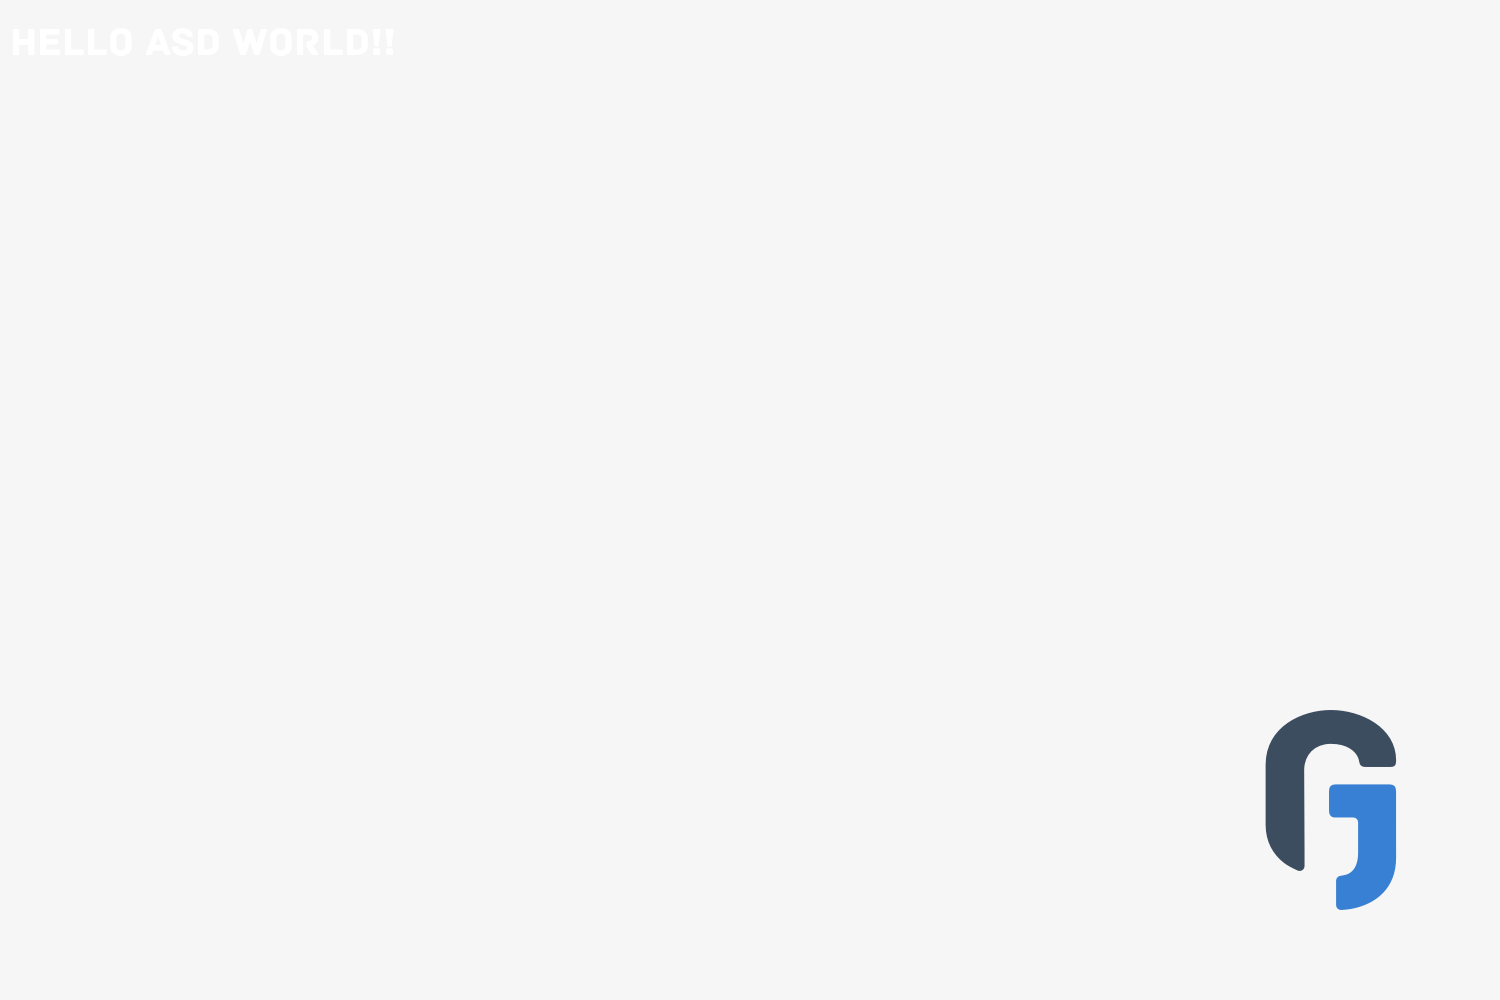
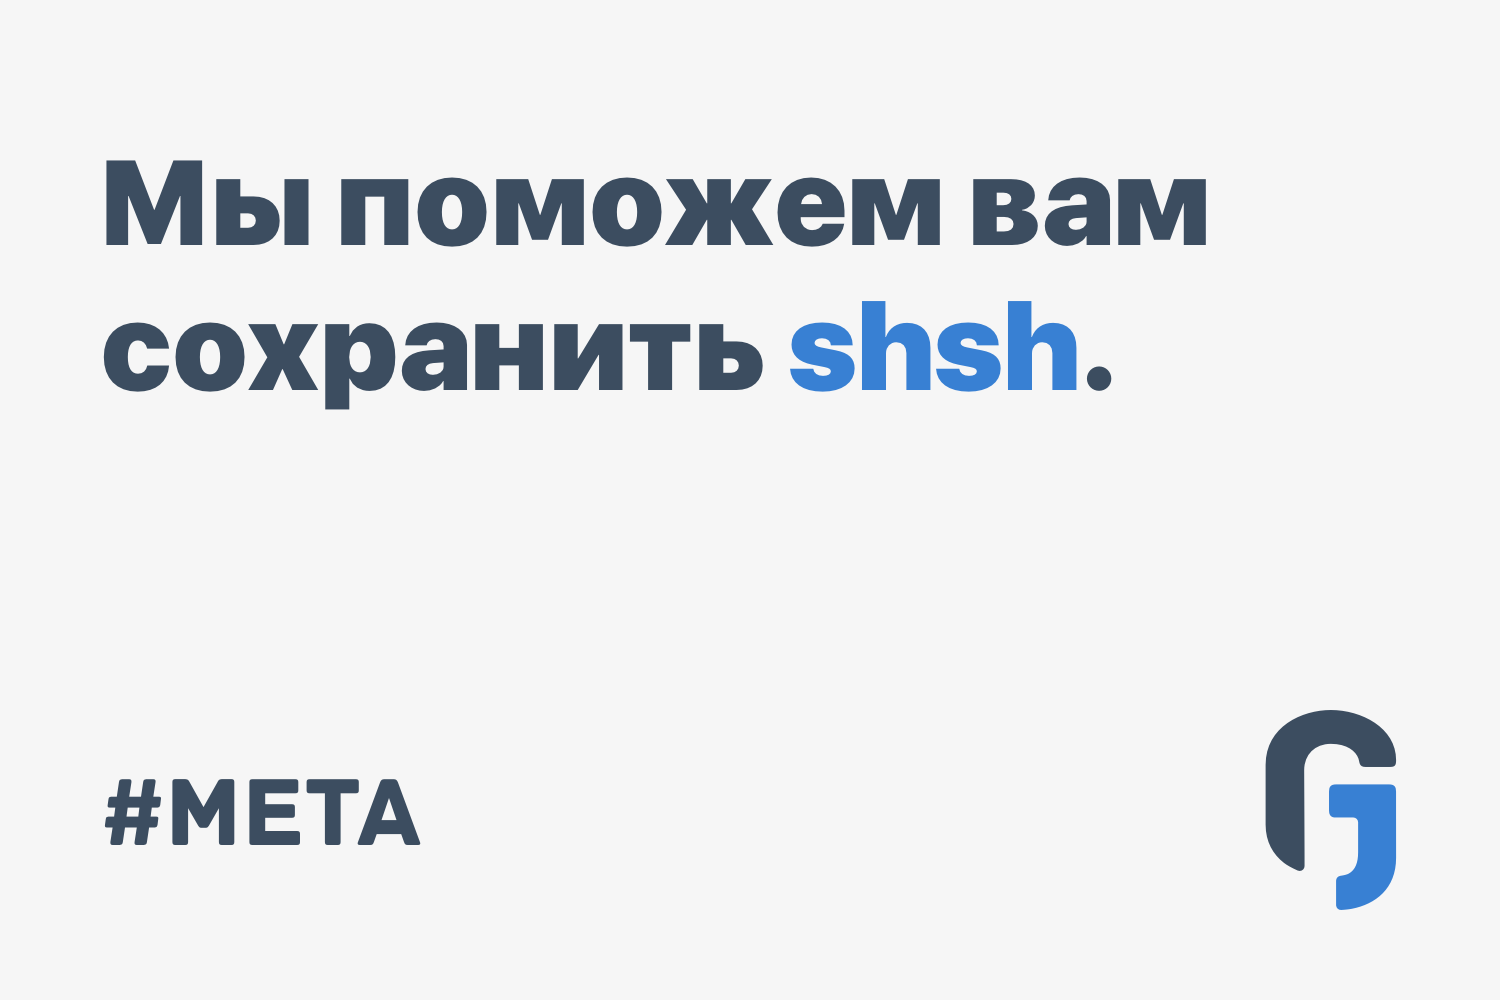
upd

Changed region(s): [[0.0613, 0.155, 0.828, 0.248], [0.0613, 0.279, 0.736, 0.434], [0.0613, 0.775, 0.276, 0.868]]

diff --git a/jailgeek-tool/PILSlavik.py b/jailgeek-tool/PILSlavik.py
@@ -1,0 +1,62 @@
+from PIL import ImageDraw
+
+
+class ImageDrawSlavik(ImageDraw.ImageDraw):
+	"""docstring for ImageDrawSlavik"""
+	def __init__(self, im, mode=None):
+		super(ImageDrawSlavik, self).__init__(im, mode)
+
+
+	def text(self, xy, text, fill=None, font=None, anchor=None, *args, **kwargs):
+		if self._multiline_check(text):
+			return self.multiline_text(xy, text, fill, font, anchor, *args, **kwargs)
+		ink, fill = self._getink(fill)
+		if font is None:
+			font = self.getfont()
+		if ink is None:
+			ink = fill
+		if ink is not None:
+			try:
+				mask, offset = font.getmask2(text, self.fontmode, *args, **kwargs)
+				xy = xy[0] + offset[0], xy[1] + offset[1]
+			except AttributeError:
+				try:
+					mask = font.getmask(text, self.fontmode, *args, **kwargs)
+				except TypeError:
+					mask = font.getmask(text)
+			self.draw.draw_bitmap(xy, mask, ink)
+		return xy
+
+
+	def multiline_text(self, xy, text, fill=None, font=None, anchor=None,
+					   spacing=4, align="left", direction=None, features=None):
+		widths = []
+		max_width = 0
+		lines = self._multiline_split(text)
+		line_spacing = self.textsize('A', font=font)[1] + spacing
+		for line in lines:
+			line_width, line_height = self.textsize(line, font)
+			widths.append(line_width)
+			max_width = max(max_width, line_width)
+		left, top = xy
+		for idx, line in enumerate(lines):
+			if align == "left":
+				pass  # left = x
+			elif align == "center":
+				left += (max_width - widths[idx]) / 2.0
+			elif align == "right":
+				left += (max_width - widths[idx])
+			else:
+				assert False, 'align must be "left", "center" or "right"'
+			self.text((left, top), line, fill, font, anchor,
+					  direction=direction, features=features)
+			top += line_spacing
+			left = xy[0]
+
+
+	def text_box(self, xy, box, texts=[], font=None, spacing=4, **kwargs):
+		fill = kwargs["fill"]
+		hfill = kwargs["hfill"]
+		for text in texts:
+			print self.text(xy, text)
+		

diff --git a/jailgeek-tool/__init__.py b/jailgeek-tool/__init__.py
@@ -1,21 +1,38 @@
-import sys
+import sys
 from Telegram import TelegramDocument
-from PIL import Image, ImageDraw, ImageFont
+from PIL import Image, ImageFont
+from PILSlavik import ImageDrawSlavik
+
+
+
 
 file = TelegramDocument()
 
-im = Image.open("assets/post-bg.png")
-font = ImageFont.truetype("assets/Archive.otf", 40)
+# im = Image.open("assets/post-bg.png")
+im = Image.open("assets/test.png")
+font = ImageFont.truetype("assets/SFUIDisplayBlack.otf", 120)
 
 
+text = u"Мы поможем вам cохранить shsh."
+draw = ImageDrawSlavik(im)
+draw.text_box(
+	(100, 130),
+	(1400, 750),
+	text,
+	font=font,
+	spacing=30,
+	fill=(60, 77, 96,255),
+	hfill=(56, 128, 211, 255),
+)
 
-draw = ImageDraw.Draw(im)
-draw.text((10, 25), "Hello asd world!!", font=font)
+# draw.multiline_text
+# draw.textsize(text, font)
+
 del draw
 
 
 
 im.save(open("text.png", "wb"), "PNG")
-im.save(file, "PNG")
+# im.save(file, "PNG")
 
-file.send()
+# file.send()

diff --git a/jailgeek-tool/Telegram.py b/jailgeek-tool/Telegram.py
@@ -1,9 +1,9 @@
 try:
-    # python 2
-    from BytesIO import BytesIO
+	# python 2
+	from BytesIO import BytesIO
 except ImportError:
-    # python 3
-    from io import BytesIO
+	# python 3
+	from io import BytesIO
 
 import requests
 
